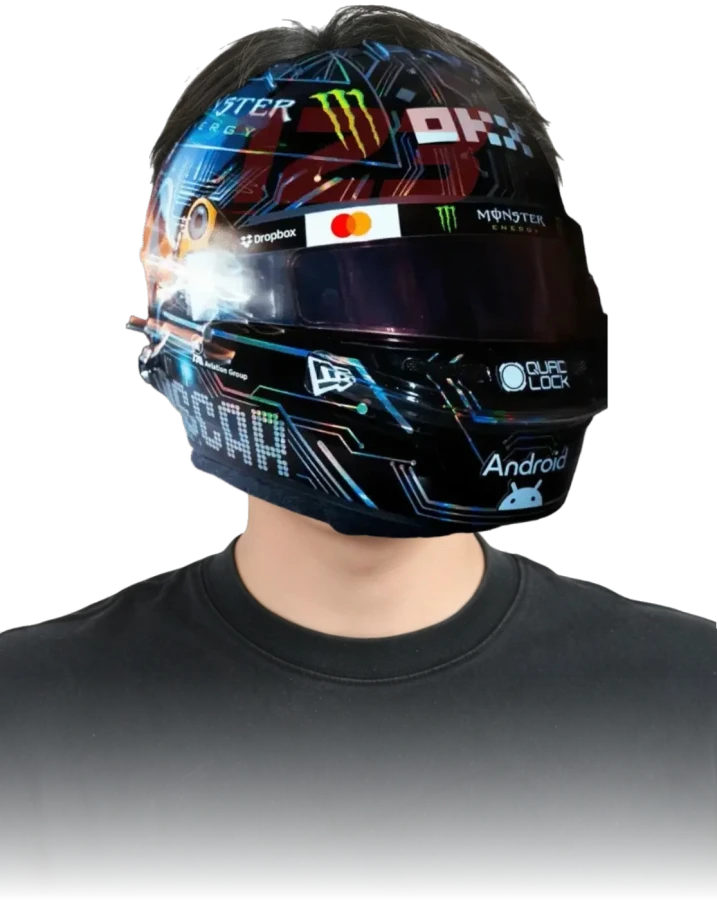
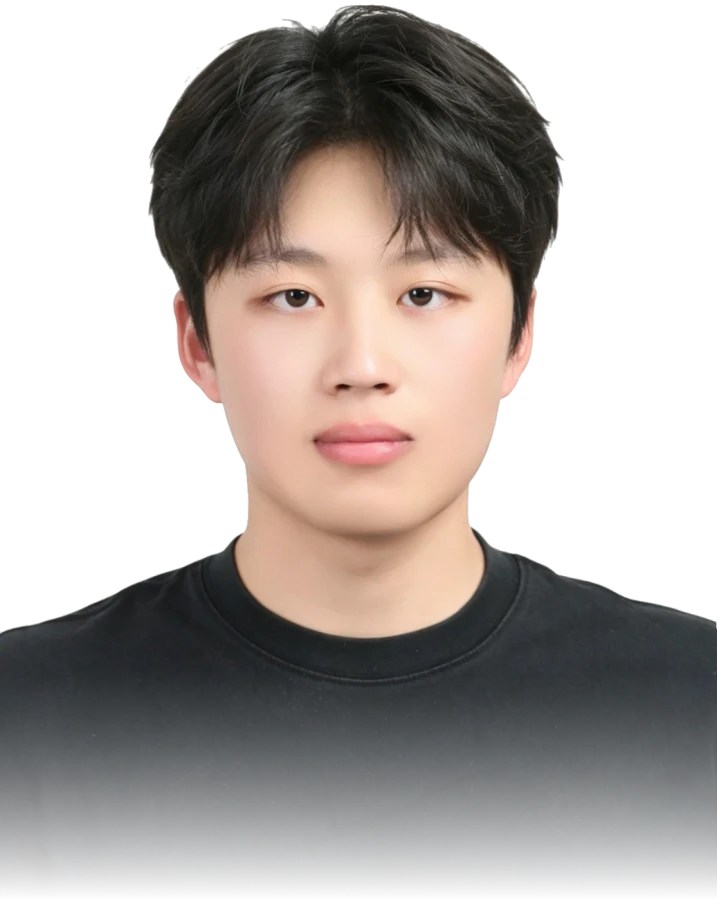
去除头盔，首屏恢复纯人物肖像（流体效果保留）

Changed region(s): [[0.1534, 0.0311, 0.8591, 0.6222]]

diff --git a/docs/index.html b/docs/index.html
@@ -116,7 +116,7 @@
           <source media="(max-width:820px)" srcset="assets/img/hero-composite-900.webp" type="image/webp">
           <source srcset="assets/img/hero-composite.webp" type="image/webp">
           <img class="hero__img" src="assets/img/hero-composite.png"
-               alt="任恺昱戴着奥斯卡·皮亚斯特里 2025 美国大奖赛特别版「Retro Tech」头盔的肖像"
+               alt="任恺昱的肖像照"
                width="1115" height="1400"
                fetchpriority="high" decoding="async">
         </picture>

diff --git a/index.html b/index.html
@@ -115,7 +115,7 @@
           <source media="(max-width:820px)" srcset="assets/img/hero-composite-900.webp" type="image/webp">
           <source srcset="assets/img/hero-composite.webp" type="image/webp">
           <img class="hero__img" src="assets/img/hero-composite.png"
-               alt="任恺昱戴着奥斯卡·皮亚斯特里 2025 美国大奖赛特别版「Retro Tech」头盔的肖像"
+               alt="任恺昱的肖像照"
                width="1115" height="1400"
                fetchpriority="high" decoding="async">
         </picture>

diff --git a/README.md b/README.md
@@ -5,9 +5,7 @@
 首屏视觉参考 **Lando Norris 官网**（OFF+BRAND 设计，Awwwards Site of the Day）：
 双色系统、超大字体、动能交互、人物抠像叠加排版。
 
-首屏人物戴着 **奥斯卡·皮亚斯特里 2025 美国大奖赛（奥斯汀）特别版
-「Retro Tech」头盔** —— 电路板走线涂装、用线路拼出的 81 号。
-鼠标划过时整块画面会有**流体波动**（WebGL 实现，见下）。
+鼠标划过人物时整块画面会有**流体波动**（WebGL 实现，见下）。
 
 **纯静态站点**：零依赖、零构建步骤，HTML/CSS/JS 全手写，
 运行时不需要任何外部资源（字体和图片都已自托管）。
@@ -116,7 +114,7 @@ personal-site/
 ├── 404.html                错误页
 ├── src/                    合成用的源素材，不参与部署
 │   ├── portrait-1400.webp  抠好底的人物
-│   └── helmet.webp         头盔素材
+│   └── helmet.webp         头盔素材（目前未使用，保留以便加回）
 ├── assets/                 线上资源（只放网页真正会请求的文件）
 │   ├── css/style.css       全部样式（设计令牌集中在 :root）
 │   ├── js/main.js          滚动/光标/入场等通用交互
@@ -245,17 +243,19 @@ const MAXVEL   = 0.028;  // 位移上限
 **兜底**：任何一步失败（不支持 WebGL、贴图加载失败、context 丢失、
 系统开了"减少动态效果"）都安静退回静态 `<img>`，绝不让首屏变空白。
 
-### 重新生成合成图
+### 重新生成首屏图
 
-头盔是在离线阶段烤进人物图的（不是 CSS 叠两层）：
-这样 shader 只需采样一张贴图，逻辑简单、性能也好。
+首屏图是在离线阶段烤好的一张贴图（不是 CSS 叠层）：
+这样 shader 只需采样一张纹理，逻辑简单、性能也好。
 
 ```bash
-node tools/compose-hero.mjs --h=780 --cx=570 --top=58
+node tools/compose-hero.mjs --no-helmet     # 当前状态：纯人物
+node tools/compose-hero.mjs                 # 戴上皮亚斯特里头盔
 ```
 
 | 参数 | 说明 |
 |---|---|
+| `--no-helmet` | 只输出人物原图，不叠头盔 |
 | `--h` | 头盔高度(px) |
 | `--cx` | 头盔中心 x |
 | `--top` | 头盔顶部 y |
@@ -264,22 +264,28 @@ node tools/compose-hero.mjs --h=780 --cx=570 --top=58
 人物图 1115×1400，关键坐标：发顶 y=13、下巴 y=828、头心 x=570。
 拿不准位置就跑 `node tools/grid.mjs` 生成带坐标网格的图来看。
 
-**比例参考**：头盔占画面高度 45~50% 最像"戴着"；超过 60% 会像大头娃娃。
-头顶露出一点头发反而更自然（纯物理正确地全包住会显得像浮在头上）。
-
-### 头盔素材
+### 头盔素材（目前未使用，保留以便随时加回）
 
 `tools/helmet-raw/austin-1.webp` 是从
 [123helmets](https://123helmets.com/f1-helmets/oscar-piastris-retro-tech-helmet-for-the-2025-us-grand-prix-in-austin/)
-下载的 800×800 原图。
+下载的 800×800 原图 —— 皮亚斯特里 2025 美国大奖赛（奥斯汀）特别版
+「Retro Tech」：电路板走线涂装、用线路拼出的 81 号。
 
-> ⚠ **版权提醒**：头盔涂装和这张照片都是他人的版权素材
-> （McLaren / Piastri 及拍摄方）。个人非商业网站做粉丝向展示一般没问题，
-> 但如果要商用，建议换成自己拍的或官方授权的图。
+头盔是在**透明底**上的，所以用 `optimize.mjs`（只缩放压缩），
+不要用 `cutout.mjs`（那是给白底照片去背的）。
 
 ```bash
-node tools/optimize.mjs tools/helmet-raw/austin-1.webp assets/img --name=helmet --sizes=800,520
+node tools/optimize.mjs tools/helmet-raw/austin-1.webp src --name=helmet --sizes=800
+node tools/compose-hero.mjs                 # 加回头盔
 ```
+
+**比例参考**：头盔占画面高度 45~50% 最像"戴着"；超过 60% 会像大头娃娃。
+头顶露出一点头发反而更自然（纯物理正确地全包住会显得像浮在头上）。
+当初在 `--h` 720/760/800/900 之间做了六组对比才定的 780。
+
+> ⚠ **版权提醒**：头盔涂装和那张照片都是他人的版权素材
+> （McLaren / Piastri 及拍摄方）。个人非商业网站做粉丝向展示一般没问题，
+> 但如果要商用，建议换成自己拍的或官方授权的图。
 
 ---
 
